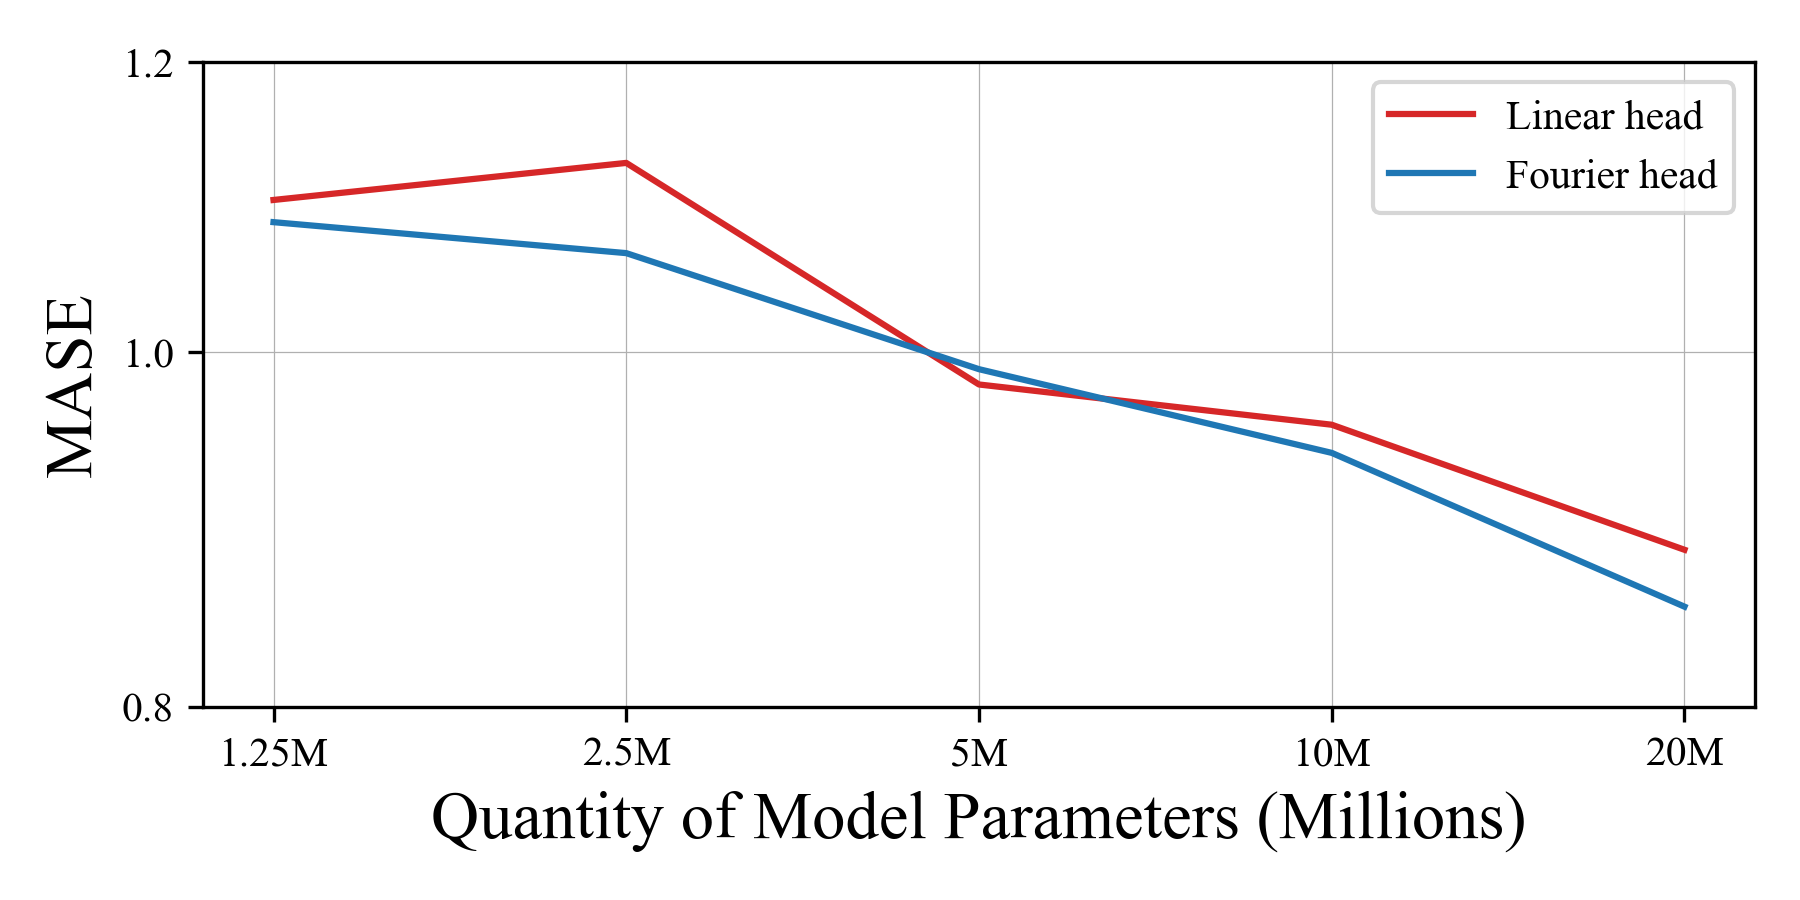
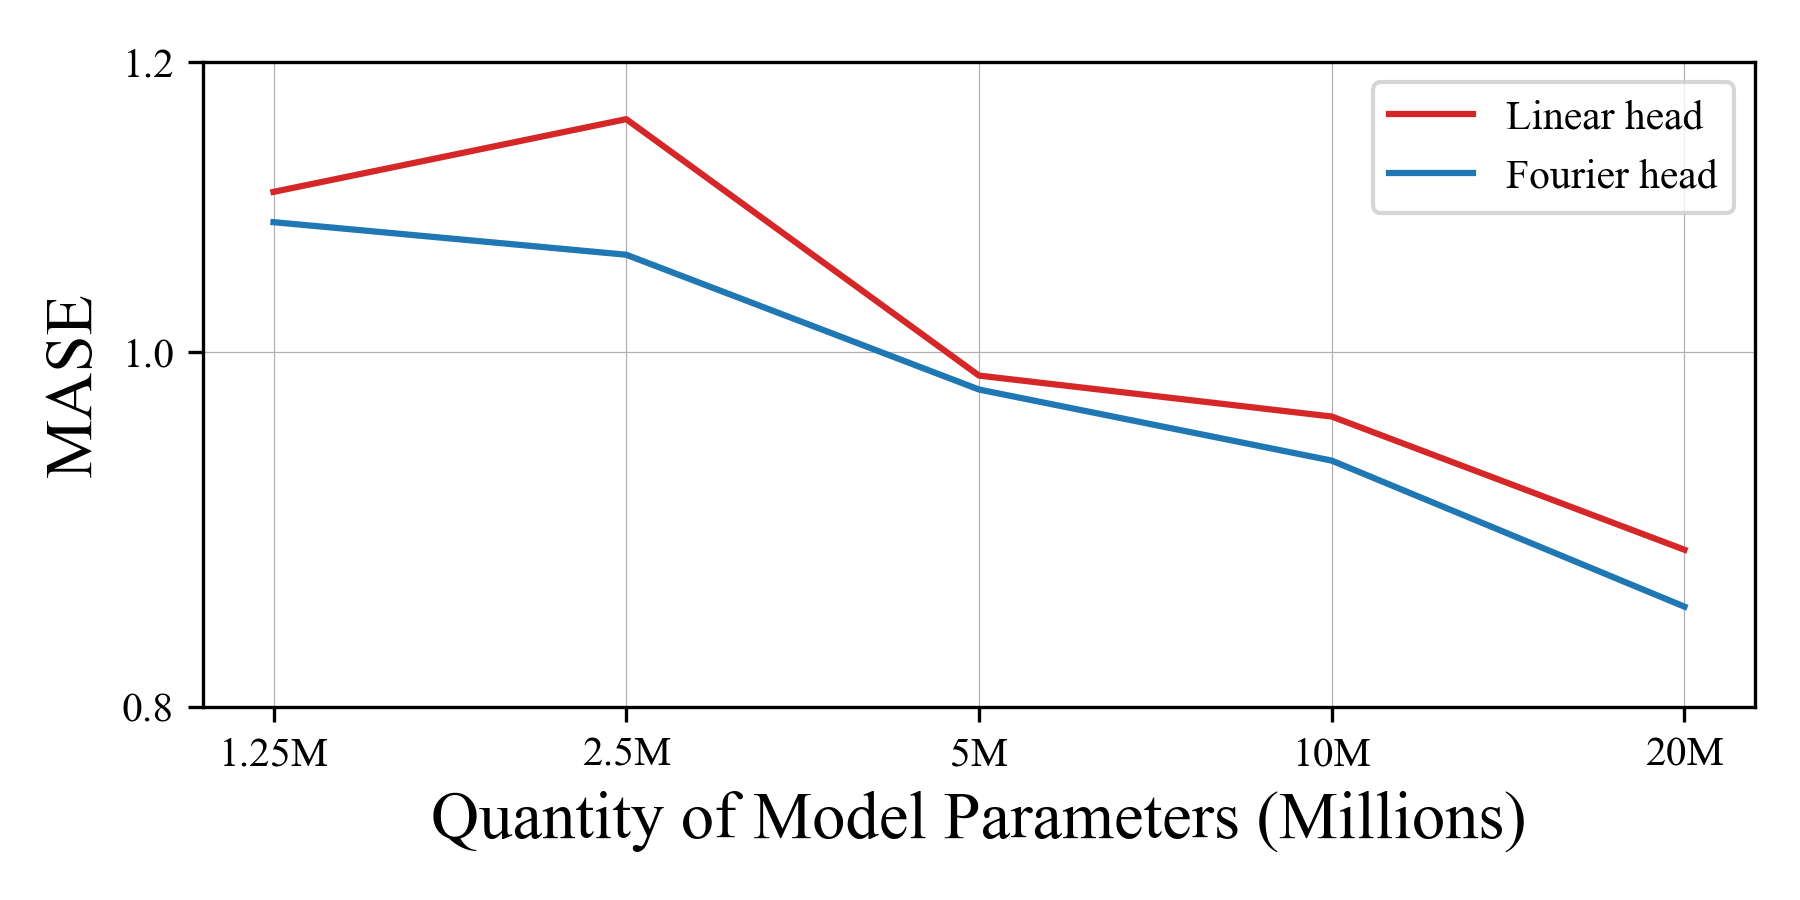
update graphs

diff --git a/time-series-forecasting/scripts/eval/graphing/chronos_ablation_varying_model_size_v4.py b/time-series-forecasting/scripts/eval/graphing/chronos_ablation_varying_model_size_v4.py
@@ -20,18 +20,33 @@ from t5_scaling_configs_v2 import t5_scaling_configs
 
 MAX_RUN_IDX = 4
 
-run_idxs = {
+run_idxs_v1 = {
     "fourier" : {
         0 : [40, 41, 42, 43],
         1 : [1, 31, 32, 33],
         2 : [52, 53, 54, 55], # 96: [44, 45, 46, 47], 128 : [2, 23, 24, 25], 192 : [48, 49, 50, 51], 256 : [36, 37, 38, 39], 288: [NONE], 320 : [56, 57, 58, 59], 352 : [52, 53, 54, 55, 60, 61, 62, 63, 64, 65, 66, 67 [CHECK THES LAST EIGHT!!]]
-        3 : [3, 8, 9, 10] # ALSO-- 68, 69, 70, 71, 72, 73, 74, 75 [CHECK THESE...],
+        3 : [3, 8, 9, 10] # ALSO-- 68, 69, 70, 71, 72, 73, 74, 75 [CHECK THESE...]
     },
     "linear" : {
         0 : [4, 17, 18, 19],
         1 : [5, 27, 34, 35],
         2 : [6, 20, 21, 22],
         3 : [7, 28, 29, 30],
+    },
+}
+
+run_idxs = {
+    "fourier" : {
+        0 : [40, 41, 42],       # 40, 41, 42, 43, 68, 69
+        1 : [1, 31, 32],        # 1, 31, 32, 33
+        2 : [54, 60, 65],       # 52, 53, 54, 55, 60, 61, 62, 63, 64, 65, 66, 67
+        3 : [8, 9, 10]          # 3, 8, 9, 10
+    },
+    "linear" : {
+        0 : [17, 18, 19],       # 4, 17, 18, 19
+        1 : [5, 27, 34],        # 5, 27, 34, 35, 92, 93, 94, 95, 96, 97, 98, 99, 100, 101, 102
+        2 : [6, 20, 21],        # 6, 20, 21
+        3 : [28, 29, 30],       # 7, 28, 29, 30
     },
 }
 
